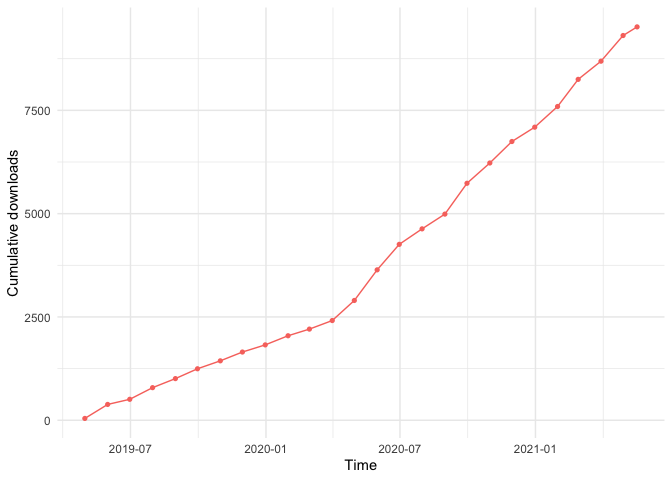
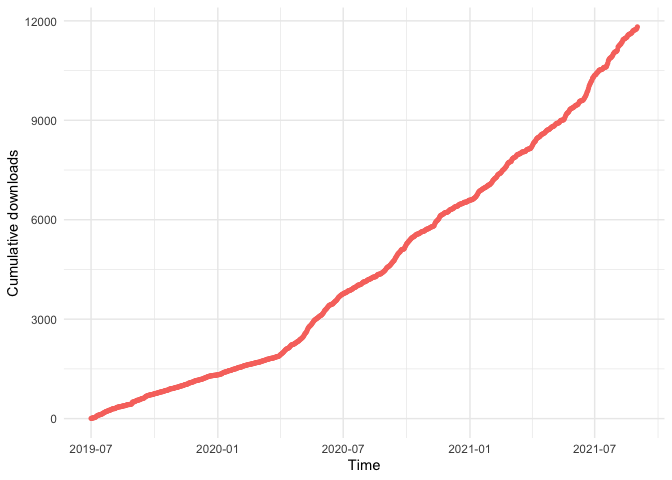
Remove gitee link and update readme

diff --git a/docs/index.html b/docs/index.html
@@ -345,7 +345,7 @@
 <div id="usage" class="section level2">
 <h2 class="hasAnchor">
 <a href="#usage" class="anchor"></a>Usage</h2>
-<p>A complete documentation of <strong>sigminer</strong> can be read online at <a href="https://shixiangwang.github.io/sigminer-doc/" class="uri">https://shixiangwang.github.io/sigminer-doc/</a> (For Chinese users, you can also read it at <a href="https://shixiangwang.gitee.io/sigminer-doc/" class="uri">https://shixiangwang.gitee.io/sigminer-doc/</a>). All functions are well organized and documented at <a href="https://shixiangwang.github.io/sigminer/reference/index.html" class="uri">https://shixiangwang.github.io/sigminer/reference/index.html</a> (For Chinese users, you can also read it at <a href="https://shixiangwang.gitee.io/sigminer/reference/index.html" class="uri">https://shixiangwang.gitee.io/sigminer/reference/index.html</a>). For usage of a specific function <code>fun</code>, run <code>?fun</code> in your R console to see its documentation.</p>
+<p>A complete documentation of <strong>sigminer</strong> can be read online at <a href="https://shixiangwang.github.io/sigminer-doc/" class="uri">https://shixiangwang.github.io/sigminer-doc/</a>. All functions are well organized and documented at <a href="https://shixiangwang.github.io/sigminer/reference/index.html" class="uri">https://shixiangwang.github.io/sigminer/reference/index.html</a>. For usage of a specific function <code>fun</code>, run <code>?fun</code> in your R console to see its documentation.</p>
 </div>
 <div id="citation" class="section level2">
 <h2 class="hasAnchor">
@@ -361,6 +361,20 @@
 <div id="download-stats" class="section level2">
 <h2 class="hasAnchor">
 <a href="#download-stats" class="anchor"></a>Download Stats</h2>
+<div class="sourceCode" id="cb4"><pre class="sourceCode R"><code class="sourceCode r"><span id="cb4-1"><a href="#cb4-1" aria-hidden="true" tabindex="-1"></a><span class="co">#&gt; </span></span>
+<span id="cb4-2"><a href="#cb4-2" aria-hidden="true" tabindex="-1"></a><span class="co">#&gt; 载入程辑包：'dplyr'</span></span>
+<span id="cb4-3"><a href="#cb4-3" aria-hidden="true" tabindex="-1"></a><span class="co">#&gt; The following object is masked from 'package:Biobase':</span></span>
+<span id="cb4-4"><a href="#cb4-4" aria-hidden="true" tabindex="-1"></a><span class="co">#&gt; </span></span>
+<span id="cb4-5"><a href="#cb4-5" aria-hidden="true" tabindex="-1"></a><span class="co">#&gt;     combine</span></span>
+<span id="cb4-6"><a href="#cb4-6" aria-hidden="true" tabindex="-1"></a><span class="co">#&gt; The following objects are masked from 'package:BiocGenerics':</span></span>
+<span id="cb4-7"><a href="#cb4-7" aria-hidden="true" tabindex="-1"></a><span class="co">#&gt; </span></span>
+<span id="cb4-8"><a href="#cb4-8" aria-hidden="true" tabindex="-1"></a><span class="co">#&gt;     combine, intersect, setdiff, union</span></span>
+<span id="cb4-9"><a href="#cb4-9" aria-hidden="true" tabindex="-1"></a><span class="co">#&gt; The following objects are masked from 'package:stats':</span></span>
+<span id="cb4-10"><a href="#cb4-10" aria-hidden="true" tabindex="-1"></a><span class="co">#&gt; </span></span>
+<span id="cb4-11"><a href="#cb4-11" aria-hidden="true" tabindex="-1"></a><span class="co">#&gt;     filter, lag</span></span>
+<span id="cb4-12"><a href="#cb4-12" aria-hidden="true" tabindex="-1"></a><span class="co">#&gt; The following objects are masked from 'package:base':</span></span>
+<span id="cb4-13"><a href="#cb4-13" aria-hidden="true" tabindex="-1"></a><span class="co">#&gt; </span></span>
+<span id="cb4-14"><a href="#cb4-14" aria-hidden="true" tabindex="-1"></a><span class="co">#&gt;     intersect, setdiff, setequal, union</span></span></code></pre></div>
 <p><img src="reference/figures/README-unnamed-chunk-8-1.png" width="100%"></p>
 </div>
 <div id="references" class="section level2">

diff --git a/docs/reference/tidyeval.html b/docs/reference/tidyeval.html
@@ -162,22 +162,22 @@ section of Advanced R." />
     <div class="ref-description">
     
 <ul>
-<li><p><code><a href='https://rdrr.io/pkg/rlang/man/sym.html'>sym</a>()</code> creates a symbol from a string and
-<code><a href='https://rdrr.io/pkg/rlang/man/sym.html'>syms</a>()</code> creates a list of symbols from a
+<li><p><code><a href='https://rlang.r-lib.org/reference/sym.html'>sym</a>()</code> creates a symbol from a string and
+<code><a href='https://rlang.r-lib.org/reference/sym.html'>syms</a>()</code> creates a list of symbols from a
 character vector.</p></li>
-<li><p><code><a href='https://rdrr.io/pkg/rlang/man/nse-defuse.html'>enquo</a>()</code> and
-<code><a href='https://rdrr.io/pkg/rlang/man/nse-defuse.html'>enquos</a>()</code> delay the execution of one or
+<li><p><code><a href='https://rlang.r-lib.org/reference/nse-defuse.html'>enquo</a>()</code> and
+<code><a href='https://rlang.r-lib.org/reference/nse-defuse.html'>enquos</a>()</code> delay the execution of one or
 several function arguments. <code>enquo()</code> returns a single quoted
 expression, which is like a blueprint for the delayed computation.
 <code>enquos()</code> returns a list of such quoted expressions.</p></li>
-<li><p><code><a href='https://rdrr.io/pkg/rlang/man/nse-defuse.html'>expr</a>()</code> quotes a new expression <em>locally</em>. It
+<li><p><code><a href='https://rlang.r-lib.org/reference/nse-defuse.html'>expr</a>()</code> quotes a new expression <em>locally</em>. It
 is mostly useful to build new expressions around arguments
 captured with <code>enquo()</code> or <code>enquos()</code>:
 <code>expr(mean(!!enquo(arg), na.rm = TRUE))</code>.</p></li>
-<li><p><code><a href='https://rdrr.io/pkg/rlang/man/as_name.html'>as_name</a>()</code> transforms a quoted variable name
+<li><p><code><a href='https://rlang.r-lib.org/reference/as_name.html'>as_name</a>()</code> transforms a quoted variable name
 into a string. Supplying something else than a quoted variable
 name is an error.</p>
-<p>That's unlike <code><a href='https://rdrr.io/pkg/rlang/man/as_label.html'>as_label</a>()</code> which also returns
+<p>That's unlike <code><a href='https://rlang.r-lib.org/reference/as_label.html'>as_label</a>()</code> which also returns
 a single string but supports any kind of R object as input,
 including quoted function calls and vectors. Its purpose is to
 summarise that object into a single label. That label is often

diff --git a/docs/reference/show_group_mapping.html b/docs/reference/show_group_mapping.html
@@ -142,7 +142,7 @@ it in other similar situations.</p>
   title <span class='op'>=</span> <span class='cn'>NULL</span>,
   xlab <span class='op'>=</span> <span class='cn'>NULL</span>,
   ylab <span class='op'>=</span> <span class='cn'>NULL</span>,
-  custom_theme <span class='op'>=</span> <span class='fu'>cowplot</span><span class='fu'>::</span><span class='fu'><a href='https://wilkelab.org/cowplot/reference/theme_minimal_grid.html'>theme_minimal_hgrid</a></span><span class='op'>(</span><span class='op'>)</span>
+  custom_theme <span class='op'>=</span> <span class='fu'>cowplot</span><span class='fu'>::</span><span class='fu'><a href='https://rdrr.io/pkg/cowplot/man/theme_minimal_grid.html'>theme_minimal_hgrid</a></span><span class='op'>(</span><span class='op'>)</span>
 <span class='op'>)</span></pre>
 
     <h2 class="hasAnchor" id="arguments"><a class="anchor" href="#arguments"></a>Arguments</h2>
@@ -182,7 +182,7 @@ it in other similar situations.</p>
     </tr>
     <tr>
       <th>custom_theme</th>
-      <td><p>theme for plotting, default is <code><a href='https://wilkelab.org/cowplot/reference/theme_minimal_grid.html'>cowplot::theme_minimal_hgrid()</a></code>.</p></td>
+      <td><p>theme for plotting, default is <code><a href='https://rdrr.io/pkg/cowplot/man/theme_minimal_grid.html'>cowplot::theme_minimal_hgrid()</a></code>.</p></td>
     </tr>
     </table>
 

diff --git a/docs/reference/show_group_comparison.html b/docs/reference/show_group_comparison.html
@@ -136,7 +136,7 @@ continuous data." />
     <p>Using result data from <a href='get_group_comparison.html'>get_group_comparison</a>, this function plots
 genotypes/phenotypes comparison between signature groups using <strong>ggplot2</strong> package and return
 a list of <code>ggplot</code> object contains individual and combined plots. The combined
-plot is easily saved to local using <code><a href='https://wilkelab.org/cowplot/reference/save_plot.html'>cowplot::save_plot()</a></code>. Of note, default fisher
+plot is easily saved to local using <code><a href='https://rdrr.io/pkg/cowplot/man/save_plot.html'>cowplot::save_plot()</a></code>. Of note, default fisher
 test p values are shown for categorical data and fdr values are shown for
 continuous data.</p>
     </div>

diff --git a/docs/articles/sigminer.html b/docs/articles/sigminer.html
@@ -165,7 +165,7 @@
 <h2 class="hasAnchor">
 <a href="#more" class="anchor"></a>More</h2>
 <p>Please go to <a href="https://shixiangwang.github.io/sigminer/reference/index.html" class="uri">https://shixiangwang.github.io/sigminer/reference/index.html</a> for well organized functions and documentation.</p>
-<p>Please go to <a href="https://shixiangwang.github.io/sigminer-doc/" class="uri">https://shixiangwang.github.io/sigminer-doc/</a> or <a href="https://shixiangwang.gitee.io/sigminer-doc/" class="uri">https://shixiangwang.gitee.io/sigminer-doc/</a> (for Chinese readers) for full vignette.</p>
+<p>Please go to <a href="https://shixiangwang.github.io/sigminer-doc/" class="uri">https://shixiangwang.github.io/sigminer-doc/</a> for full vignette.</p>
 </div>
   </div>
 

diff --git a/docs/reference/show_sig_profile_loop.html b/docs/reference/show_sig_profile_loop.html
@@ -174,7 +174,7 @@ Default is <code>NULL</code>, prefix 'Sig' plus number is used.</p></td>
 
     <h2 class="hasAnchor" id="value"><a class="anchor" href="#value"></a>Value</h2>
 
-    <p>a <code>ggplot</code> result from <code><a href='https://wilkelab.org/cowplot/reference/plot_grid.html'>cowplot::plot_grid()</a></code>.</p>
+    <p>a <code>ggplot</code> result from <code><a href='https://rdrr.io/pkg/cowplot/man/plot_grid.html'>cowplot::plot_grid()</a></code>.</p>
     <h2 class="hasAnchor" id="see-also"><a class="anchor" href="#see-also"></a>See also</h2>
 
     <div class='dont-index'><p><a href='show_sig_profile.html'>show_sig_profile</a></p></div>

diff --git a/docs/reference/show_cn_components.html b/docs/reference/show_cn_components.html
@@ -185,7 +185,7 @@ vertically ("v") aligned. Options are "none" (default), "hv" (align in both dire
     </tr>
     <tr>
       <th>...</th>
-      <td><p>other options pass to <code><a href='https://wilkelab.org/cowplot/reference/plot_grid.html'>plot_grid</a></code> function of <strong>cowplot</strong> package.</p></td>
+      <td><p>other options pass to <code><a href='https://rdrr.io/pkg/cowplot/man/plot_grid.html'>plot_grid</a></code> function of <strong>cowplot</strong> package.</p></td>
     </tr>
     </table>
 

diff --git a/docs/reference/show_cn_features.html b/docs/reference/show_cn_features.html
@@ -189,7 +189,7 @@ vertically ("v") aligned. Options are "none" (default), "hv" (align in both dire
     </tr>
     <tr>
       <th>...</th>
-      <td><p>other options pass to <code><a href='https://wilkelab.org/cowplot/reference/plot_grid.html'>plot_grid</a></code> function of <code>cowplot</code> package.</p></td>
+      <td><p>other options pass to <code><a href='https://rdrr.io/pkg/cowplot/man/plot_grid.html'>plot_grid</a></code> function of <code>cowplot</code> package.</p></td>
     </tr>
     </table>
 

diff --git a/README.md b/README.md
@@ -137,12 +137,9 @@ conda install -c bioconda -c conda-forge r-sigminer
 ## Usage
 
 A complete documentation of **sigminer** can be read online at
-<https://shixiangwang.github.io/sigminer-doc/> (For Chinese users, you
-can also read it at <https://shixiangwang.gitee.io/sigminer-doc/>). All
-functions are well organized and documented at
-<https://shixiangwang.github.io/sigminer/reference/index.html> (For
-Chinese users, you can also read it at
-<https://shixiangwang.gitee.io/sigminer/reference/index.html>). For
+<https://shixiangwang.github.io/sigminer-doc/>. All functions are well
+organized and documented at
+<https://shixiangwang.github.io/sigminer/reference/index.html>. For
 usage of a specific function `fun`, run `?fun` in your R console to see
 its documentation.
 
@@ -167,6 +164,21 @@ following papers.
 ------------------------------------------------------------------------
 
 ## Download Stats
+
+    #> 
+    #> 载入程辑包：'dplyr'
+    #> The following object is masked from 'package:Biobase':
+    #> 
+    #>     combine
+    #> The following objects are masked from 'package:BiocGenerics':
+    #> 
+    #>     combine, intersect, setdiff, union
+    #> The following objects are masked from 'package:stats':
+    #> 
+    #>     filter, lag
+    #> The following objects are masked from 'package:base':
+    #> 
+    #>     intersect, setdiff, setequal, union
 
 <img src="man/figures/README-unnamed-chunk-8-1.png" width="100%" />
 
